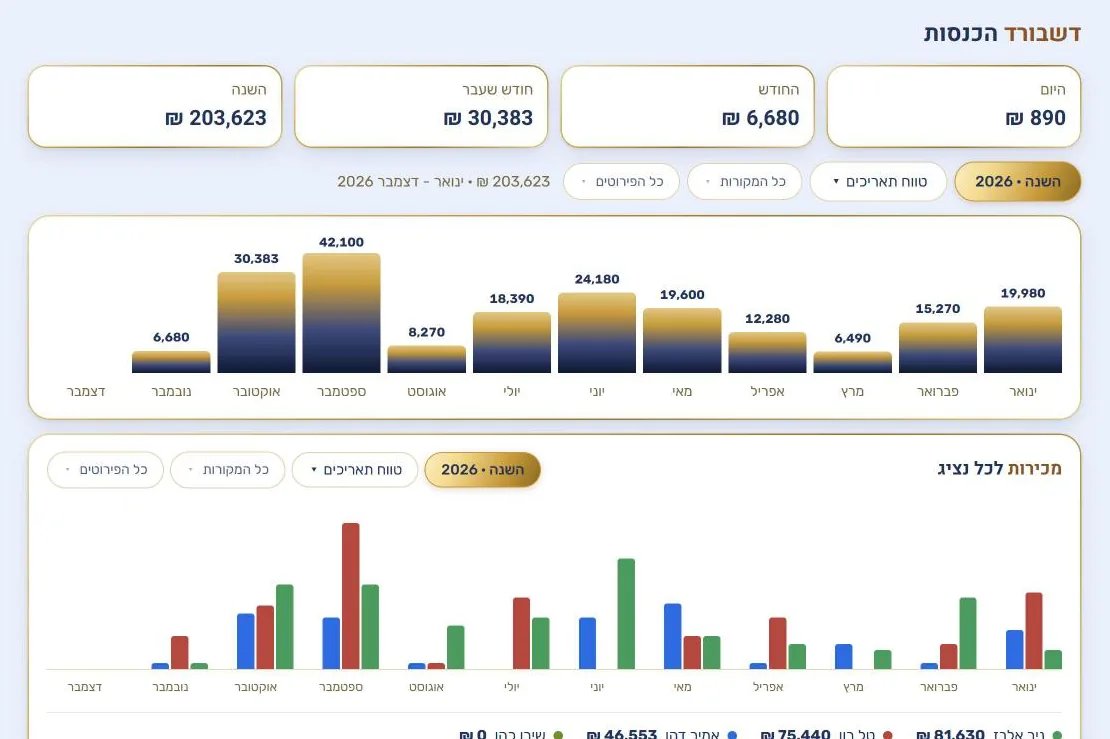
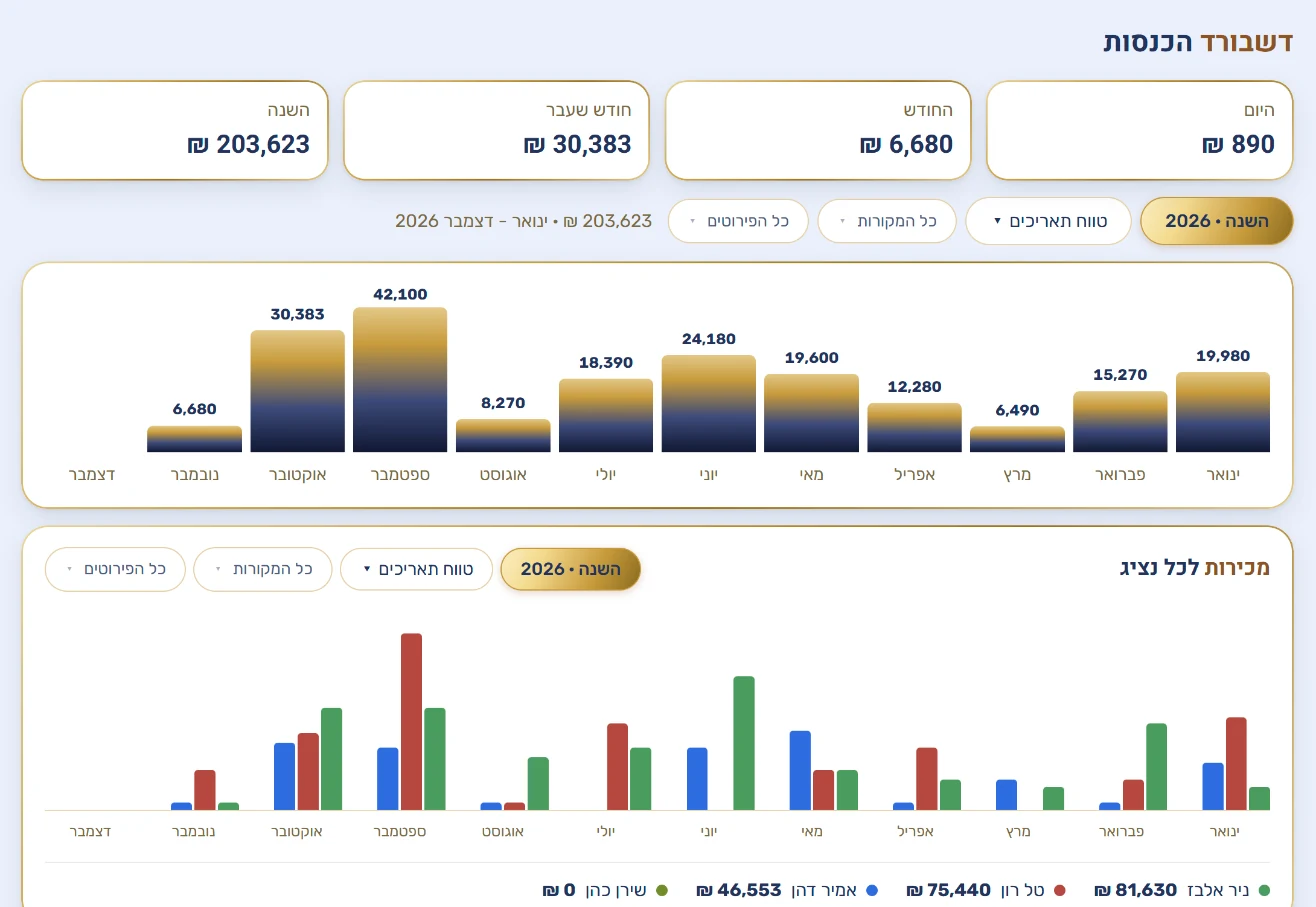
feat(crm): כאבים לכולם, הנוסח של אילנה, 14 פיצ'רים נוספים, וצילומים חדים וגדולים

diff --git a/crm/index.html b/crm/index.html
@@ -17,7 +17,7 @@
   <link rel="preconnect" href="https://fonts.googleapis.com" />
   <link rel="preconnect" href="https://fonts.gstatic.com" crossorigin />
   <link href="https://fonts.googleapis.com/css2?family=Heebo:wght@400;500;700;800&display=swap" rel="stylesheet" />
-  <link rel="stylesheet" href="/assets/site.css?v=20261106o" />
+  <link rel="stylesheet" href="/assets/site.css?v=20261106p" />
 </head>
 <body>
 
@@ -57,12 +57,21 @@
       <div class="wrap">
         <h2>מכירים את זה?</h2>
         <ul class="ask-list">
+          <li>דברים נשכחים ונופלים בין הכיסאות?</li>
+          <li>ליד לא ענה פעם אחת, פעמיים, שלוש, ובסוף פשוט שכחו לחזור אליו?</li>
+          <li>שלחתם חוזה, ושכחתם לבדוק אם הוא חזר חתום?</li>
+          <li>הגבייה לא נעשית בזמן, והחשבוניות יוצאות באיחור?</li>
+          <li>נכנסים יותר לידים ממה שאפשר לחזור אליהם, ואז לידים מתפספסים?</li>
           <li>הלידים מפוזרים בין הוואטסאפ, האקסלים והמיילים?</li>
-          <li>ליד אמר "אני אחשוב על זה ואחזור אליכם", ואף אחד לא חזר אליו?</li>
-          <li>אתם משלמים כל חודש על CRM, ועוד תוספת על כל עובד שמשתמש בו?</li>
-          <li>וכל פעם שמישהו מהצוות צריך לדעת מה דיברו עם לקוח, הוא בא לשאול אתכם?</li>
         </ul>
-        <p>אם עניתם "כן" על אחת מהשאלות, <span class="strong">זה לא כי הצוות שלכם לא טוב,</span> אלא כי כל עוד המידע מפוזר ותלוי בזיכרון של בן אדם, דברים פשוט יתפספסו.</p>
+        <h3 class="ask-sub">ואם יש לכם נציגי מכירות:</h3>
+        <ul class="ask-list">
+          <li>אתם יודעים כמה שיחות כל נציג עושה כל יום?</li>
+          <li>ובאיזה סכומים כל נציג מוכר?</li>
+          <li>כמה משימות ופולואפים פתוחים יש לכל נציג, וכמה מהם כבר באיחור?</li>
+          <li>ויש לכם מעקב מסודר אחרי כל זה, או שאתם מגלים רק בסוף החודש?</li>
+        </ul>
+        <p>אם עניתם "כן" אפילו על אחת מהשאלות, <span class="strong">זה לא כי אתם לא מסודרים,</span> אלא כי כל עוד הכל תלוי בזיכרון של בן אדם, דברים פשוט ייפלו בין הכיסאות.</p>
       </div>
     </section>
 
@@ -77,7 +86,9 @@
           <h2>כי שילמתי על זה ביוקר בעצמי</h2>
           <p>20 שנה אני בעולם העסקים, וניהלתי מכללה פרטית וקליניקה עם 14 עובדים.</p>
           <p>שילמתי כ-100 אלף ש"ח בחודש על עובדים, ומעל זה 1,200 ש"ח בחודש על מערכת CRM שהיתה יקרה, מסורבלת, <span class="strong">ועדיין לא נתנה לי את מה שהייתי צריכה באמת!</span></p>
-          <p>אז בניתי לעצמי את המערכת שהייתי צריכה, ועכשיו אני בונה אותה גם לעסקים אחרים, כל אחד לפי איך שהעסק שלו עובד.</p>
+          <p>אז בניתי לעצמי את המערכת שהייתי צריכה - <span class="strong">מערכת החלומות שלי, שבהבטחה אין עוד כזו בארץ!</span></p>
+          <p>איך ידעתי לבנות כזו? ידעתי לאפיין אותה במשך חודשים רבים רק בזכות הנסיון העסקי הרב שצברתי בתחום ניהול עובדים ותהליכים מורכבים.</p>
+          <p>ועכשיו אני בונה אותה גם לעסקים אחרים, כל אחד לפי איך שהעסק שלו עובד, לאחר שיחת אפיון מעמיקה בחינם.</p>
         </div>
       </div>
     </section>
@@ -98,7 +109,7 @@
           <p>פותחים כרטיס ורואים הכל במקום אחד: כל ההתכתבויות, הפגישות, ההערות, המשימות, החוזים והתשלומים.</p>
           <p>ככה לא מחפשים בשלושה מקומות מי זה ומה דיברנו איתו, ונכנסים לכל שיחה כשיודעים בדיוק איפה עומדים.</p>
         </div>
-        <figure class="shot"><img src="/assets/img/crm/card.webp" width="1458" height="695" loading="lazy" alt="כרטיס לקוח במערכת: היסטוריה, משימות, חוזים ומסמכים פיננסיים" /></figure>
+        <figure class="shot"><img src="/assets/img/crm/card.webp" width="1372" height="881" loading="lazy" alt="כרטיס לקוח במערכת: היסטוריה, משימות, חוזים ומסמכים פיננסיים" /></figure>
       </div>
     </section>
     <section class="sec sec-band">
@@ -109,7 +120,7 @@
           <p>ההודעות בוואטסאפ נכנסות לבד לכרטיס של הלקוח, גם אלה שנשלחו מהטלפון, ואפשר לענות ישר מתוך המערכת. וגם המייל, האינסטגרם והפייסבוק מתועדים באותו כרטיס.</p>
           <p>ויש גם אפשרות שכל הודעה קולית תתומלל לבד, ככה שקוראים אותה במקום להקשיב לה.</p>
         </div>
-        <figure class="shot"><img src="/assets/img/crm/whatsapp.webp" width="1458" height="695" loading="lazy" alt="התכתבות בוואטסאפ בתוך המערכת, עם הודעה קולית מתומללת" /></figure>
+        <figure class="shot"><img src="/assets/img/crm/whatsapp.webp" width="1292" height="924" loading="lazy" alt="התכתבות בוואטסאפ בתוך המערכת, עם הודעה קולית מתומללת" /></figure>
       </div>
     </section>
     <section class="sec bg-light">
@@ -120,7 +131,7 @@
           <p>כל ליד מקבל סטטוס בצבע, וכל התצוגות נשמרות.</p>
           <p>ככה רואים בשנייה מי חדש, מי באמצע, ומי צריך פולואפ היום.</p>
         </div>
-        <figure class="shot"><img src="/assets/img/crm/leads.webp" width="1458" height="695" loading="lazy" alt="טבלת הלידים עם הסטטוסים בצבע" /></figure>
+        <figure class="shot"><img src="/assets/img/crm/leads.webp" width="1372" height="881" loading="lazy" alt="טבלת הלידים עם הסטטוסים בצבע" /></figure>
       </div>
     </section>
     <section class="sec sec-band">
@@ -131,7 +142,7 @@
           <p>משימות להיום, למחר ובאיחור, משימות חוזרות, פרויקטים, וכל משימה מקושרת ללקוח ולשיחה שממנה היא נולדה.</p>
           <p>ומשימה שלא בוצעה עד יום היעד פשוט נשארת מול העיניים, ולא נעלמת.</p>
         </div>
-        <figure class="shot"><img src="/assets/img/crm/tasks.webp" width="1458" height="603" loading="lazy" alt="עמוד המשימות" /></figure>
+        <figure class="shot"><img src="/assets/img/crm/tasks.webp" width="1456" height="816" loading="lazy" alt="עמוד המשימות" /></figure>
       </div>
     </section>
     <section class="sec bg-light">
@@ -142,7 +153,7 @@
           <p>היומן מסונכרן עם יומן גוגל, והלקוח מקבל תזכורת בוואטסאפ לפני הפגישה, בלי שאף אחד צריך לזכור לשלוח אותה.</p>
           <p>ויש גם קישור שבו לידים קובעים איתכם שיחה לבד, ונפתח להם כרטיס במערכת אוטומטית.</p>
         </div>
-        <figure class="shot"><img src="/assets/img/crm/calendar.webp" width="1458" height="603" loading="lazy" alt="היומן החודשי עם הפגישות של הצוות" /></figure>
+        <figure class="shot"><img src="/assets/img/crm/calendar.webp" width="1456" height="816" loading="lazy" alt="היומן החודשי עם הפגישות של הצוות" /></figure>
       </div>
     </section>
     <section class="sec sec-band">
@@ -153,7 +164,7 @@
           <p>דשבורד שמראה כמה נכנס, מאיזה מקור ודרך איזה נציג,</p>
           <p>ככה שיודעים בדיוק מה מביא כסף ומה רק נראה עסוק.</p>
         </div>
-        <figure class="shot"><img src="/assets/img/crm/dashboard.webp" width="1110" height="739" loading="lazy" alt="דשבורד ההכנסות: לפי חודש, ומכירות לכל נציג" /></figure>
+        <figure class="shot"><img src="/assets/img/crm/dashboard.webp" width="1316" height="907" loading="lazy" alt="דשבורד ההכנסות: לפי חודש, ומכירות לכל נציג" /></figure>
       </div>
     </section>
 
@@ -164,6 +175,86 @@
         <h2>כל הצוות בפנים, בלי תשלום על כל עובד</h2>
         <p>כל עובד מקבל כניסה משלו והרשאות לפי התפקיד שלו.</p>
         <p><span class="strong">ועסק עם חמישה עובדים משלם בדיוק כמו עסק עם אחד, כי לא נקנסים על זה שהעסק גדל!</span></p>
+      </div>
+    </section>
+
+    <!-- ===== ועוד המון ===== -->
+    <section class="sec bg-light">
+      <div class="wrap-wide">
+        <h2 style="text-align:center;margin-bottom:clamp(22px,3vw,34px)">ועוד המון דברים שיש בפנים</h2>
+        <div class="grid grid-3 more-feats">
+          <div class="card">
+            <span class="svc-ico" aria-hidden="true">⏰</span>
+            <h3>פולואפים שלא נשכחים</h3>
+            <p>ליד לא ענה? נשלחה הצעת מחיר? יצא חוזה? המערכת פותחת לבד משימה לחזור אליו ביום העסקים הבא.</p>
+          </div>
+          <div class="card">
+            <span class="svc-ico" aria-hidden="true">✍</span>
+            <h3>חוזה שנחתם בטלפון</h3>
+            <p>שולחים חוזה בוואטסאפ, הלקוח חותם באצבע, והחוזה החתום חוזר לבד לכרטיס שלו.</p>
+          </div>
+          <div class="card">
+            <span class="svc-ico" aria-hidden="true">💰</span>
+            <h3>גבייה ומסמכים פיננסיים</h3>
+            <p>הצעות מחיר, חשבוניות וקבלות בכרטיס של כל לקוח, ככה שרואים בשנייה מי שילם ומי עוד לא.</p>
+          </div>
+          <div class="card">
+            <span class="svc-ico" aria-hidden="true">📥</span>
+            <h3>לידים שנכנסים לבד</h3>
+            <p>מדף נחיתה, מהאתר או מקישור ליומן - נפתח כרטיס אוטומטית, עם המקור שממנו הליד הגיע.</p>
+          </div>
+          <div class="card">
+            <span class="svc-ico" aria-hidden="true">👥</span>
+            <h3>מה קורה אצל כל נציג</h3>
+            <p>כמה לידים, משימות ומשימות באיחור יש לכל נציג, ובכמה כל אחד מכר.</p>
+          </div>
+          <div class="card">
+            <span class="svc-ico" aria-hidden="true">🧭</span>
+            <h3>ניתוב לידים לנציגים</h3>
+            <p>כל ליד מגיע ישר לנציג הנכון, בלי שמישהו צריך לחלק אותם ביד.</p>
+          </div>
+          <div class="card">
+            <span class="svc-ico" aria-hidden="true">☀</span>
+            <h3>תזכורת בוקר בוואטסאפ</h3>
+            <p>כל בוקר מגיעה הודעה עם הכי חשוב והכי דחוף להיום, ממש כמו מזכירה אישית.</p>
+          </div>
+          <div class="card">
+            <span class="svc-ico" aria-hidden="true">🪄</span>
+            <h3>משימות מתוך שיחה בלחיצה</h3>
+            <p>כפתור אחד שקורא התכתבות או הערה, ומוציא ממנה את כל מה שצריך לעשות.</p>
+          </div>
+          <div class="card">
+            <span class="svc-ico" aria-hidden="true">🎙</span>
+            <h3>תמלול וסיכום שיחות</h3>
+            <p>הקלטה של שיחה נכנסת לכרטיס, מתומללת ומסוכמת, עם המשימות שיצאו ממנה.</p>
+          </div>
+          <div class="card">
+            <span class="svc-ico" aria-hidden="true">💡</span>
+            <h3>מה צריך לדעת</h3>
+            <p>הדבר האחד שאסור לשכוח על לקוח מופיע בראש הכרטיס שלו, לפני כל שיחה.</p>
+          </div>
+          <div class="card">
+            <span class="svc-ico" aria-hidden="true">➕</span>
+            <h3>שדות משלכם</h3>
+            <p>מוסיפים שדה, והוא מופיע לבד בטבלה, בכרטיס ובטופס, בלי לבקש מאף אחד.</p>
+          </div>
+          <div class="card">
+            <span class="svc-ico" aria-hidden="true">🔎</span>
+            <h3>תצוגות שמורות</h3>
+            <p>הסינון שאתם עושים כל בוקר נשמר, ונפתח בלחיצה אחת.</p>
+          </div>
+          <div class="card">
+            <span class="svc-ico" aria-hidden="true">🎤</span>
+            <h3>הודעה קולית מהמחשב</h3>
+            <p>מקליטים ושולחים ללקוח הודעה קולית בוואטסאפ, ישר מתוך המערכת.</p>
+          </div>
+          <div class="card">
+            <span class="svc-ico" aria-hidden="true">🏢</span>
+            <h3>כמה עסקים במערכת אחת</h3>
+            <p>כל עסק בנפרד, ובנוסף תמונת הכנסות משותפת של כולם.</p>
+          </div>
+        </div>
+        <p class="more-note">חלק מהאפשרויות הן תוספות, ובשיחת האפיון בוחרים יחד מה נכון לעסק שלכם.</p>
       </div>
     </section>
 

diff --git a/assets/site.css b/assets/site.css
@@ -1320,3 +1320,11 @@ body.has-snap { padding-bottom: var(--snap-h, 72px); }   /* המחלקה היא 
 /* צילום מסך מהדמו בעמוד ה-CRM */
 .shot { margin: 0; border-radius: 14px; overflow: hidden; border: 1px solid rgba(200, 154, 60, .45); box-shadow: 0 14px 34px rgba(10, 31, 77, .14); background: #fff; }
 .shot img { display: block; width: 100%; height: auto; }
+/* צילומים גדולים (אילנה, 6.11.2026: "מטושטשות וקטנות"): הטקסט למעלה והצילום ברוחב מלא מתחתיו */
+.feat { grid-template-columns: 1fr; gap: clamp(16px, 2.4vw, 26px); }
+.feat > div:first-child { max-width: 760px; }
+.feat-rev > :first-child { order: 0; }
+.shot { max-width: 1080px; width: 100%; margin-inline: auto; }
+.ask-sub { margin: 26px 0 12px; }
+.more-feats .card h3 { font-size: 1.12em; }
+.more-note { text-align: center; margin-top: 22px; color: var(--muted); font-size: .95em; }

diff --git a/dashboard/index.html b/dashboard/index.html
@@ -16,7 +16,7 @@
   <link rel="preconnect" href="https://fonts.googleapis.com" />
   <link rel="preconnect" href="https://fonts.gstatic.com" crossorigin />
   <link href="https://fonts.googleapis.com/css2?family=Heebo:wght@400;500;700;800&display=swap" rel="stylesheet" />
-  <link rel="stylesheet" href="/assets/site.css?v=20261106o" />
+  <link rel="stylesheet" href="/assets/site.css?v=20261106p" />
 
   <style>
     /* ====== ייחודי לעמוד הדשבורד ====== */

diff --git a/ai-agents/index.html b/ai-agents/index.html
@@ -17,7 +17,7 @@
   <link rel="preconnect" href="https://fonts.googleapis.com" />
   <link rel="preconnect" href="https://fonts.gstatic.com" crossorigin />
   <link href="https://fonts.googleapis.com/css2?family=Heebo:wght@400;500;700;800&display=swap" rel="stylesheet" />
-  <link rel="stylesheet" href="/assets/site.css?v=20261106o" />
+  <link rel="stylesheet" href="/assets/site.css?v=20261106p" />
 </head>
 <body>
 

diff --git a/anastasia/index.html b/anastasia/index.html
@@ -17,7 +17,7 @@
   <link rel="preconnect" href="https://fonts.googleapis.com" />
   <link rel="preconnect" href="https://fonts.gstatic.com" crossorigin />
   <link href="https://fonts.googleapis.com/css2?family=Heebo:wght@400;500;700;800&display=swap" rel="stylesheet" />
-  <link rel="stylesheet" href="/assets/site.css?v=20261106o" />
+  <link rel="stylesheet" href="/assets/site.css?v=20261106p" />
 </head>
 <body>
 

diff --git a/contact/index.html b/contact/index.html
@@ -17,7 +17,7 @@
   <link rel="preconnect" href="https://fonts.googleapis.com" />
   <link rel="preconnect" href="https://fonts.gstatic.com" crossorigin />
   <link href="https://fonts.googleapis.com/css2?family=Heebo:wght@400;500;700;800&display=swap" rel="stylesheet" />
-  <link rel="stylesheet" href="/assets/site.css?v=20261106o" />
+  <link rel="stylesheet" href="/assets/site.css?v=20261106p" />
 </head>
 <body>
 

diff --git a/index.html b/index.html
@@ -17,7 +17,7 @@
   <link rel="preconnect" href="https://fonts.googleapis.com" />
   <link rel="preconnect" href="https://fonts.gstatic.com" crossorigin />
   <link href="https://fonts.googleapis.com/css2?family=Heebo:wght@400;500;700;800&display=swap" rel="stylesheet" />
-  <link rel="stylesheet" href="/assets/site.css?v=20261106o" />
+  <link rel="stylesheet" href="/assets/site.css?v=20261106p" />
 </head>
 <body>
 

diff --git a/podcast/1/index.html b/podcast/1/index.html
@@ -16,7 +16,7 @@
   <link rel="preconnect" href="https://fonts.googleapis.com" />
   <link rel="preconnect" href="https://fonts.gstatic.com" crossorigin />
   <link href="https://fonts.googleapis.com/css2?family=Heebo:wght@400;500;700;800&display=swap" rel="stylesheet" />
-  <link rel="stylesheet" href="/assets/site.css?v=20261106o" />
+  <link rel="stylesheet" href="/assets/site.css?v=20261106p" />
 </head>
 <body>
 

diff --git a/podcast/_episode-template/index.html b/podcast/_episode-template/index.html
@@ -16,7 +16,7 @@
   <link rel="preconnect" href="https://fonts.googleapis.com" />
   <link rel="preconnect" href="https://fonts.gstatic.com" crossorigin />
   <link href="https://fonts.googleapis.com/css2?family=Heebo:wght@400;500;700;800&display=swap" rel="stylesheet" />
-  <link rel="stylesheet" href="/assets/site.css?v=20261106o" />
+  <link rel="stylesheet" href="/assets/site.css?v=20261106p" />
 </head>
 <body>
 

diff --git a/podcast/index.html b/podcast/index.html
@@ -16,7 +16,7 @@
   <link rel="preconnect" href="https://fonts.googleapis.com" />
   <link rel="preconnect" href="https://fonts.gstatic.com" crossorigin />
   <link href="https://fonts.googleapis.com/css2?family=Heebo:wght@400;500;700;800&display=swap" rel="stylesheet" />
-  <link rel="stylesheet" href="/assets/site.css?v=20261106o" />
+  <link rel="stylesheet" href="/assets/site.css?v=20261106p" />
 </head>
 <body>
 

diff --git a/terms/index.html b/terms/index.html
@@ -17,7 +17,7 @@
   <link rel="preconnect" href="https://fonts.googleapis.com" />
   <link rel="preconnect" href="https://fonts.gstatic.com" crossorigin />
   <link href="https://fonts.googleapis.com/css2?family=Heebo:wght@400;500;700;800&display=swap" rel="stylesheet" />
-  <link rel="stylesheet" href="/assets/site.css?v=20261106o" />
+  <link rel="stylesheet" href="/assets/site.css?v=20261106p" />
 </head>
 <body>
 
